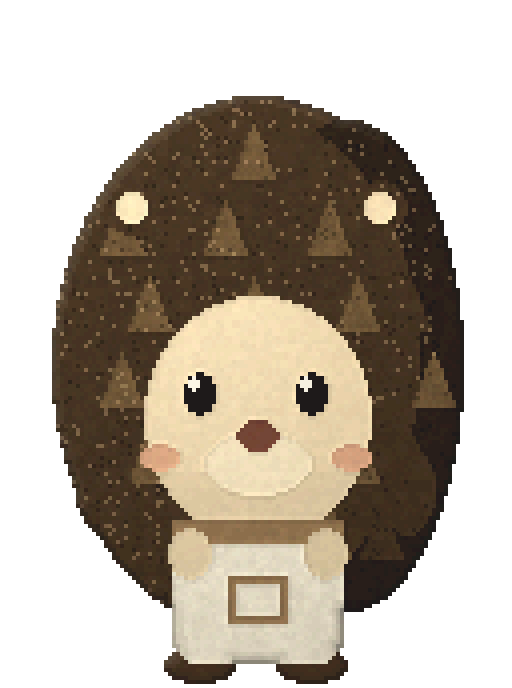
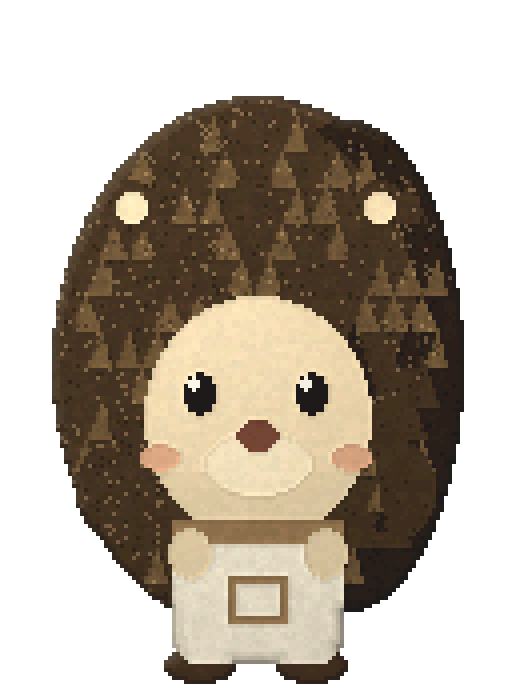
Bramble: dense spine field (basics gate item 8)
~120 small hash-varied spine triangles in staggered rows replace
the ~15 sparse ones on her dome, kept strictly inside the existing
silhouette (grade pass alpha assertion intact). Re-graded via
tools/grade_npcs.py --only bramble: alpha identical, min visible
channel 26; the other three settlement sprites untouched.

diff --git a/tools/gen_npcs2.py b/tools/gen_npcs2.py
@@ -53,12 +53,30 @@ def bramble():
     d.ellipse([58, 30, 115, 152], fill=SPD)                                      # shaded right mass
     d.ellipse([20, 28, 104, 150], fill=SP)
     import math
-    for row in range(6):                                                         # spike texture rows
-        y = 38 + row * 19
-        for i in range(7):
-            x = 24 + i * 13 + (row % 2) * 6
-            if (x - 64) ** 2 / 46 ** 2 + (y - 92) ** 2 / 62 ** 2 > .92: continue
-            d.polygon([(x - 5, y + 6), (x + 5, y + 6), (x, y - 7)], fill=SPL if (i + row) % 2 else SP)
+    # DENSE spine field (basics gate: ~15 sparse triangles read as a
+    # bald dome). ~120 small spikes in staggered rows, hash-varied in
+    # size and tone, kept strictly INSIDE the dome silhouette (the
+    # grade pass asserts the shipped alpha never changes).
+    DOMES = ((13, 24, 115, 158), (58, 30, 115, 152), (20, 28, 104, 150))
+    def in_dome(px, py):
+        return any(((px - (a + c) / 2) / ((c - a) / 2 - 1)) ** 2 +
+                   ((py - (b + e) / 2) / ((e - b) / 2 - 1)) ** 2 < 1
+                   for a, b, c, e in DOMES)
+    srow = 0
+    y = 34
+    while y < 152:
+        x = 18 + (srow % 2) * 3.5
+        while x < 112:
+            hv = ((int(x) * 73856093) ^ (int(y) * 19349663)) % 5
+            w = 2.6 + hv * .45            # half-width 2.6..4.4
+            h = 8 + (hv % 3) * 2.2        # height 8..12.4
+            pts = [(x - w, y + h * .38), (x + w, y + h * .38), (x, y - h * .62)]
+            if all(in_dome(px, py) for px, py in pts):
+                tone = SPL if hv % 3 == 0 else (SPD if x > 84 and hv % 2 else SP)
+                d.polygon(pts, fill=tone)
+            x += 7
+        y += 9
+        srow += 1
     E(d, 33, 52, 13, 13, SP); E(d, 95, 52, 13, 13, SP)                           # ears under spines
     E(d, 33, 52, 7, 7, CRM); E(d, 95, 52, 7, 7, CRM)
     E(d, 26, 122, 13, 22, SP); E(d, 102, 122, 13, 22, SP)                        # side arms (spiny)
